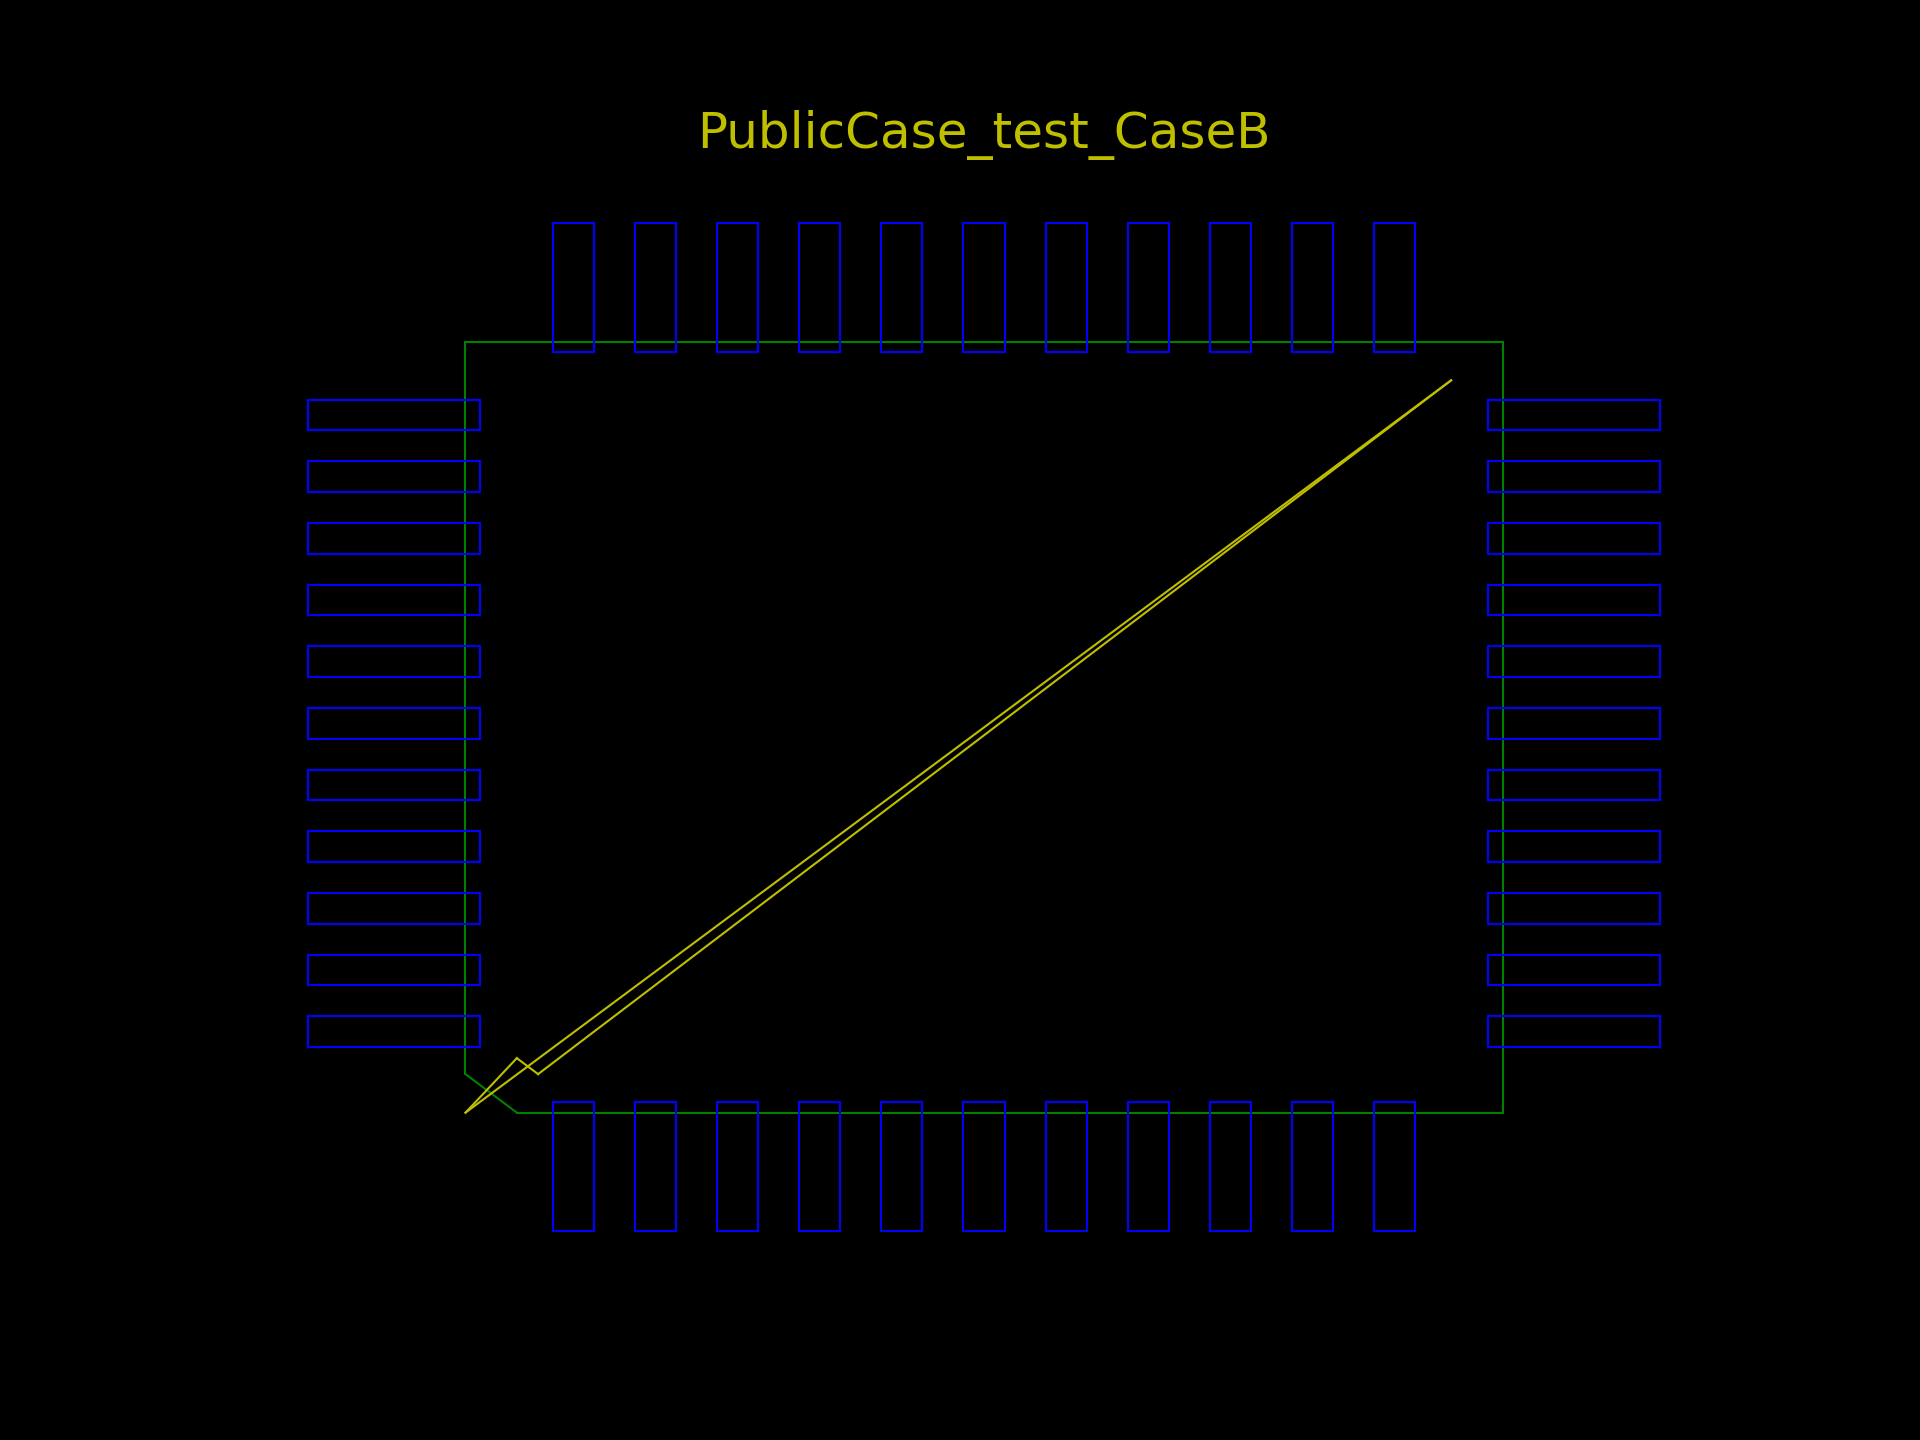
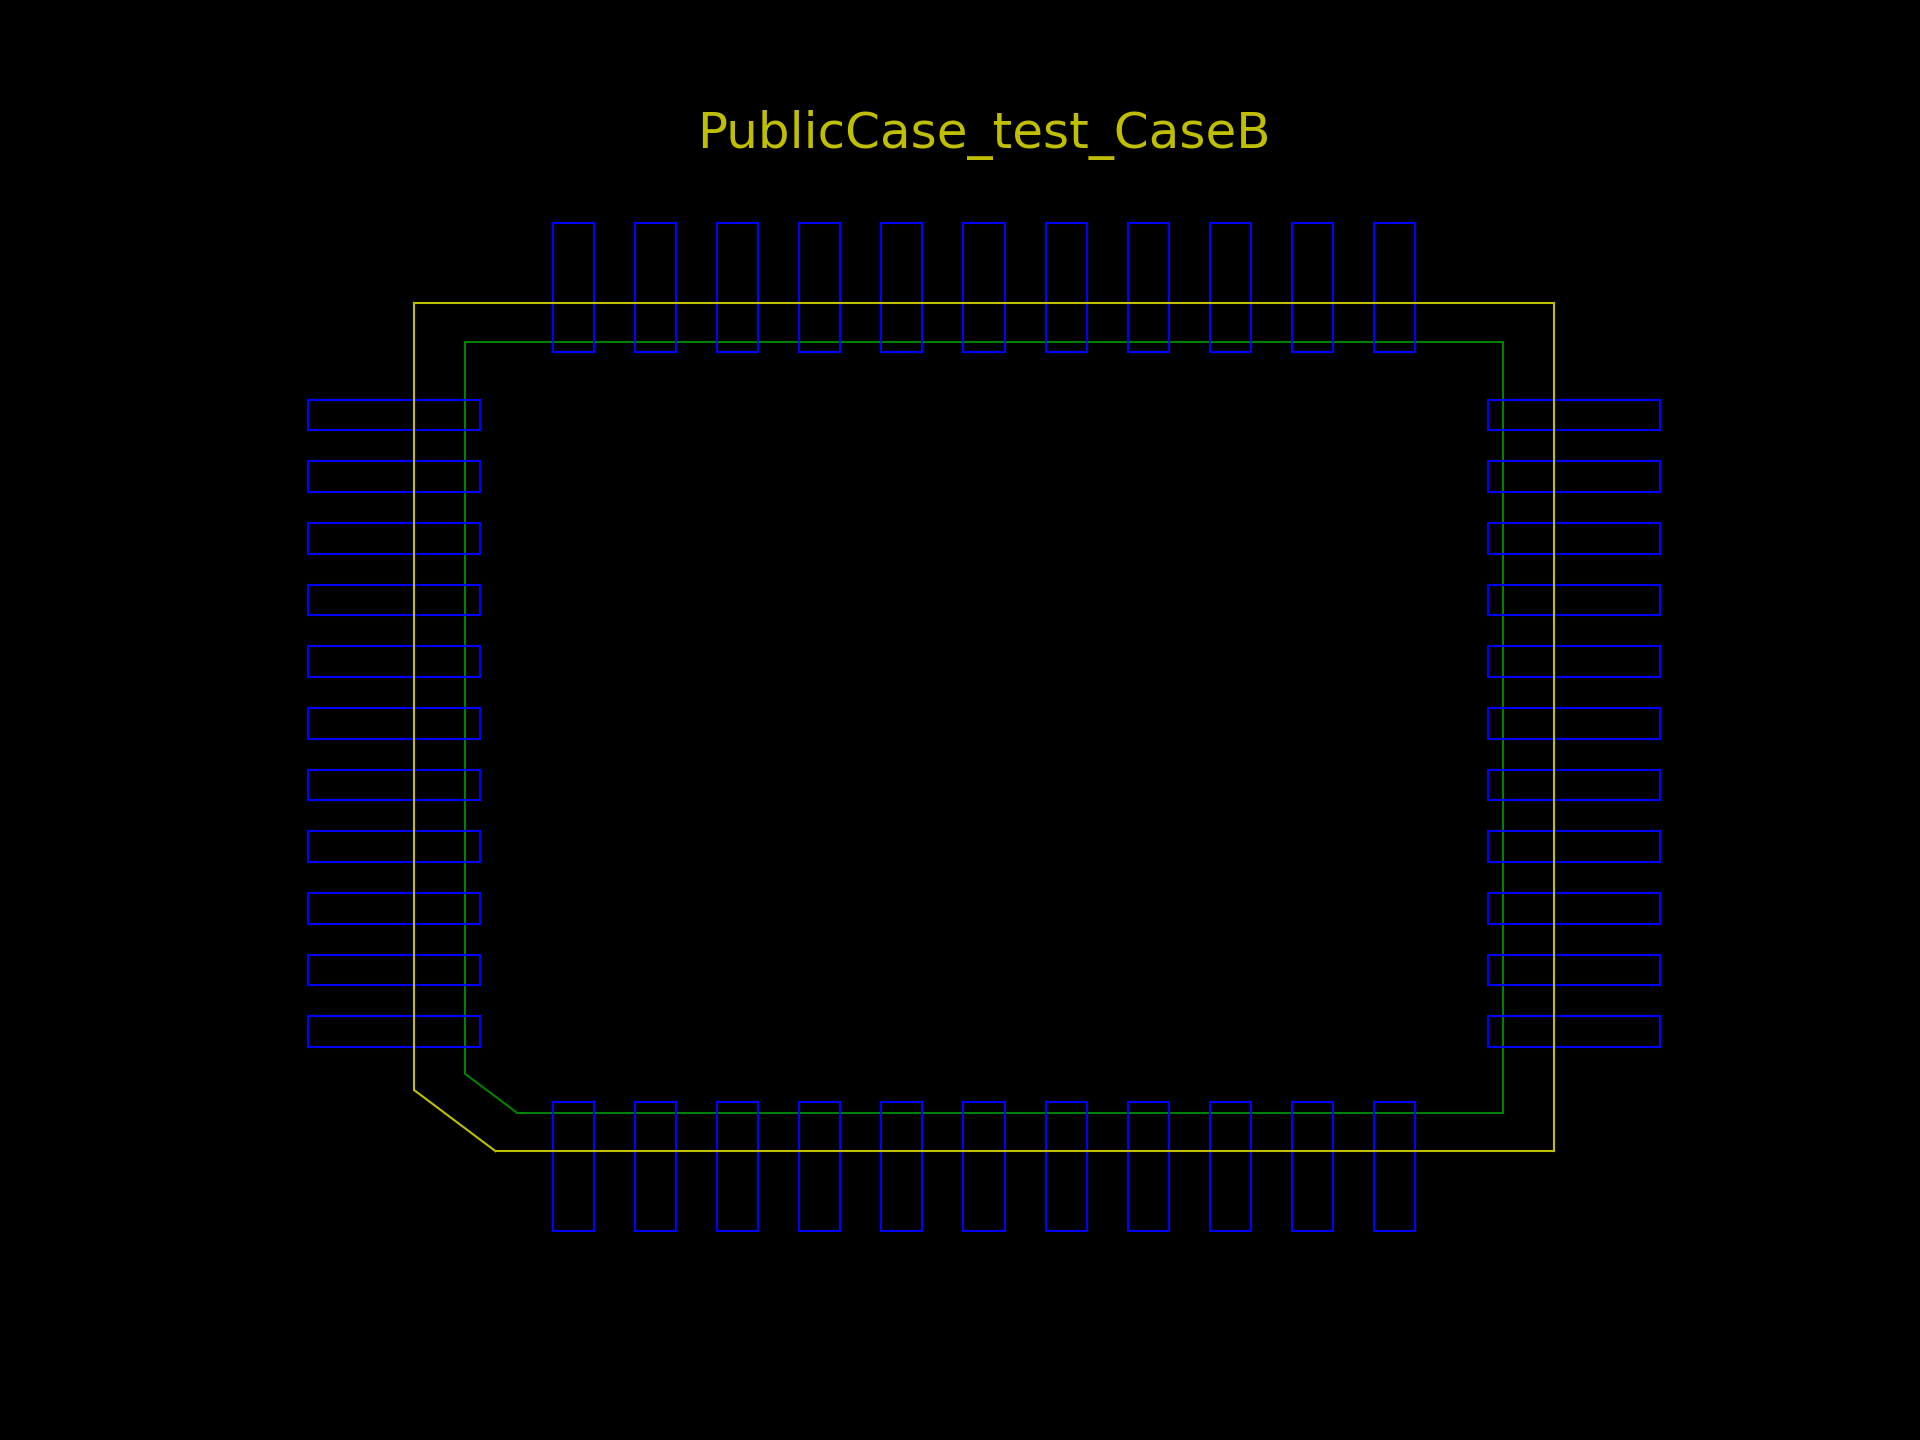
CaseB silkscreen succeed

diff --git a/main.cpp b/main.cpp
@@ -236,7 +236,7 @@ vector<Point> Line_to_Point(const vector<segment> Assembly) //將線段切割成
             second_line = Assembly[i + 1];
         else // the line is the last line
             second_line = Assembly[0];
-        if (first_line.x1 == second_line.x1 || first_line.x1 == second_line.x2) //找重疊線段
+        if ((first_line.x1 == second_line.x1 && first_line.y1 == second_line.y1) || (first_line.x1 == second_line.x2 && first_line.y1 == second_line.y2)) //找重疊線段
         {
             Point_Overlap.x = first_line.x1;
             Point_Overlap.y = first_line.y1;
@@ -271,13 +271,13 @@ vector<segment> Silkscreen_Buffer(const vector<segment> Assembly) //產生絲印
             second_line = Assembly[0];
         double first_angle = atan2(first_line.y2 - first_line.y1, first_line.x2 - first_line.x1); //不可用斜率
         double second_angle = atan2(second_line.y2 - second_line.y1, second_line.x2 - second_line.x1);
-        if (Assembly_Points[i].x == first_line.x1) // 向量共同點校正
+        if (Assembly_Points[i].x == first_line.x1 && Assembly_Points[i].y == first_line.y1) // 向量共同點校正
         {
             first_angle -= PI;
             if (first_angle < -PI)
                 first_angle += 2 * PI;
         }
-        if (Assembly_Points[i].x == second_line.x1)
+        if (Assembly_Points[i].x == second_line.x1 && Assembly_Points[i].y == second_line.y1)
         {
             second_angle -= PI;
             if (first_angle < -PI)
@@ -346,8 +346,8 @@ bool Outside_of_Assembly(const Point a, const vector<segment> Assembly) //使用
             Second_Angle = Angle_Vector[0];
         else
             Second_Angle = Angle_Vector[i + 1];
-        Angle = Second_Angle - First_Angle;           // 角度差
-        Angle = (Angle < 0) ? Angle + 2 * PI : Angle; // 差值永遠為正
+        Angle = abs(Second_Angle - First_Angle);       // 角度差
+        Angle = (Angle > PI) ? 2 * PI - Angle : Angle; // 差值永遠為正
         Total_Angle += Angle;
     }
 

diff --git a/README.md b/README.md
@@ -6,6 +6,10 @@
 
     BUGsss
 
+        FIXED:
+
+        直線外擴焦點
+
     圓與直線交點斜率
 
     外擴圓心
